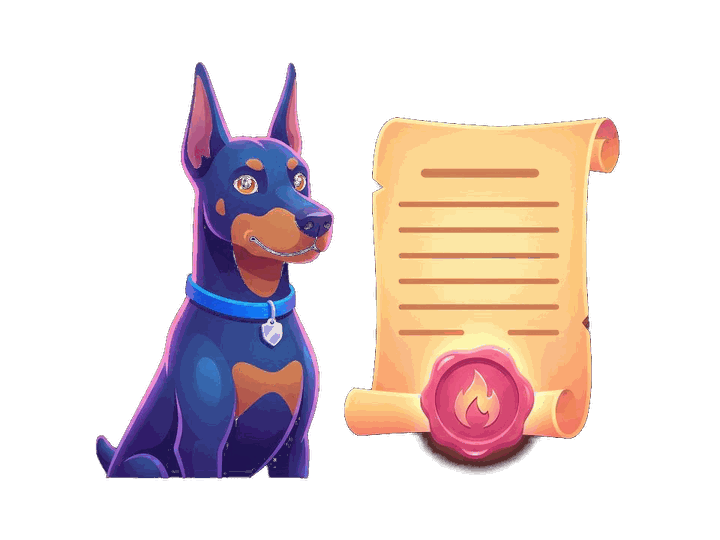
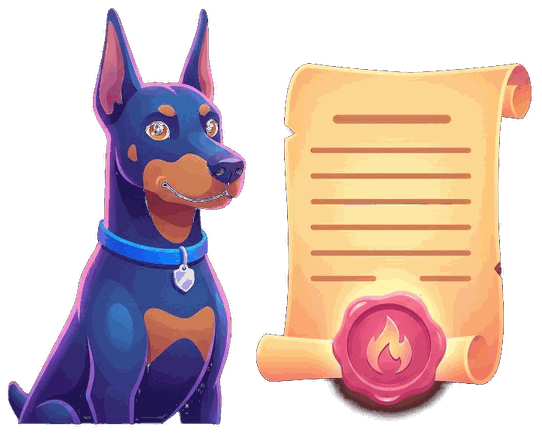
Pictures trimmed to the characters so they sit centred; review screen fits one screen; sample group activity
- All seven onboarding pictures trimmed to the drawing (the empty band above pushed the characters up); each frame
  now uses the picture's own shape. Welcome crew gets room under the logo.
- "Your application is in" fits one screen: smaller photo and title, one-row tracker, buttons at the bottom.
- scripts/seed-groups.mjs: the demo accounts join the Lounge groups, post, reply and like (--remove undoes it).

diff --git a/src/screens/Review.js b/src/screens/Review.js
@@ -2,13 +2,13 @@
 // Pending: what happens next, with the real acceptance rate once there is enough data to be honest about it.
 // Declined: what to improve, and a way to apply again.
 import { useEffect, useState } from 'react';
-import { Animated, Easing, StyleSheet, View } from 'react-native';
+import { Animated, Easing, Image, StyleSheet, View } from 'react-native';
 import { LinearGradient } from 'expo-linear-gradient';
 import { C, F, GRAD } from '../theme';
 import { Icon } from '../icons';
 import { Card, GhostButton, GradientButton, Photo, Screen, T } from '../ui';
 import * as api from '../backend';
-import { StepArt } from '../art';
+import { ART } from '../art';
 
 function Step({ icon, title, sub, state }) {
   const done = state === 'done';
@@ -38,6 +38,36 @@ function Step({ icon, title, sub, state }) {
   );
 }
 
+// Pending: the three steps in one compact row, so the whole screen fits without scrolling.
+function Tracker() {
+  const steps = [
+    { icon: 'check', label: 'Sent', state: 'done' },
+    { icon: 'eye', label: 'In review', state: 'now' },
+    { icon: 'flame', label: 'You’re in', state: 'next' },
+  ];
+  return (
+    <View style={styles.tracker}>
+      {steps.map((s, i) => (
+        <View key={s.label} style={{ flex: 1, alignItems: 'center' }}>
+          {i > 0 ? <View style={[styles.trackLine, s.state === 'next' && { backgroundColor: C.line2 }]} /> : null}
+          {s.state === 'next' ? (
+            <View style={[styles.dot, { backgroundColor: C.surf2 }]}>
+              <Icon name={s.icon} size={15} color={C.muted} />
+            </View>
+          ) : (
+            <LinearGradient colors={GRAD} start={{ x: 0, y: 0 }} end={{ x: 1, y: 1 }} style={styles.dot}>
+              <Icon name={s.icon} size={15} color="#FFFFFF" stroke={2.4} />
+            </LinearGradient>
+          )}
+          <T v="small" c={s.state === 'next' ? C.muted : C.ink} style={{ marginTop: 6, fontFamily: s.state === 'now' ? F.semi : F.medium }}>
+            {s.label}
+          </T>
+        </View>
+      ))}
+    </View>
+  );
+}
+
 export function UnderReview({ profile, status, note, onEdit, onReapply, onRefresh }) {
   const [stats, setStats] = useState(null);
   const [pulse] = useState(() => new Animated.Value(0));
@@ -62,6 +92,56 @@ export function UnderReview({ profile, status, note, onEdit, onReapply, onRefres
 
   // Only a real number, and only once enough applications were decided for it to mean something.
   const rate = stats && stats.decided >= 30 ? Math.round((stats.approved / stats.decided) * 100) : null;
+
+  if (!declined) {
+    // One screen, no scrolling: the picture takes whatever height is left and shrinks on small phones.
+    return (
+      <Screen bottom={16}>
+        <T style={{ fontFamily: F.displayX, fontSize: 22, marginTop: 4 }}>
+          tonight
+          <T c={C.pink} style={{ fontFamily: F.displayX, fontSize: 22 }}>
+            .
+          </T>
+        </T>
+        <View style={{ alignItems: 'center', marginTop: 8 }}>
+          <View style={{ width: 96, height: 96, alignItems: 'center', justifyContent: 'center' }}>
+            <Animated.View
+              style={[
+                StyleSheet.absoluteFill,
+                {
+                  borderRadius: 48,
+                  borderWidth: 1.5,
+                  borderColor: C.pink,
+                  opacity: pulse.interpolate({ inputRange: [0, 1], outputRange: [0.15, 0.7] }),
+                  transform: [{ scale: pulse.interpolate({ inputRange: [0, 1], outputRange: [0.94, 1.06] }) }],
+                },
+              ]}
+            />
+            <Photo uri={profile.photos?.[0]} blur={profile.blurFace} style={{ width: 80, height: 80, borderRadius: 40 }} />
+          </View>
+          <T style={{ fontFamily: F.display, fontSize: 26, marginTop: 10, textAlign: 'center' }}>Your application is in</T>
+          <T v="meta" c={C.muted} style={{ textAlign: 'center', marginTop: 4, maxWidth: 320 }}>
+            {`Thanks${profile.name ? `, ${profile.name}` : ''}. A person looks at every profile before it goes live. We’ll let you know.`}
+          </T>
+        </View>
+        <View style={styles.artBox}>
+          <Image source={ART.review.src} accessibilityLabel={ART.review.label} style={styles.art} resizeMode="contain" />
+        </View>
+        <Tracker />
+        <T v="small" c={C.muted} style={{ textAlign: 'center', marginTop: 8 }}>
+          Usually within 24 hours: photos, bio and verification.
+        </T>
+        <View style={styles.exclusiveLine}>
+          <Icon name="lock" size={13} color={C.pinkL} />
+          <T v="small" c={C.ink2}>
+            {rate !== null ? `Members only. ${rate}% of applications are accepted.` : 'Members only. Not everyone gets in.'}
+          </T>
+        </View>
+        <GradientButton title="Polish my profile meanwhile" onPress={onEdit} style={{ marginTop: 14 }} />
+        <GhostButton title="Check for news" onPress={onRefresh} border={false} color={C.muted} style={{ marginTop: 2 }} />
+      </Screen>
+    );
+  }
 
   return (
     <Screen scroll>
@@ -96,7 +176,6 @@ export function UnderReview({ profile, status, note, onEdit, onReapply, onRefres
             ? 'Your profile wasn’t accepted yet. You can improve it and apply once more.'
             : `Thanks${profile.name ? `, ${profile.name}` : ''}. Tonight is members-only: a person looks at every profile before it goes live. You’ll get a notification when there’s news.`}
         </T>
-        {!declined ? <StepArt name="review" height={160} style={{ marginTop: 18 }} /> : null}
       </View>
 
       {declined ? (
@@ -162,4 +241,9 @@ export function UnderReview({ profile, status, note, onEdit, onReapply, onRefres
 const styles = StyleSheet.create({
   dot: { width: 30, height: 30, borderRadius: 15, alignItems: 'center', justifyContent: 'center' },
   exclusive: { flexDirection: 'row', gap: 10, alignItems: 'center', marginTop: 16, borderRadius: 14, borderWidth: 1, borderColor: '#3A2230', padding: 12 },
+  exclusiveLine: { flexDirection: 'row', gap: 6, alignItems: 'center', justifyContent: 'center', marginTop: 6 },
+  artBox: { flex: 1, minHeight: 90, alignItems: 'center', justifyContent: 'center', marginVertical: 8 },
+  art: { height: '100%', maxHeight: 220, aspectRatio: ART.review.aspect, maxWidth: '100%' },
+  tracker: { flexDirection: 'row', alignItems: 'flex-start', paddingTop: 4 },
+  trackLine: { position: 'absolute', top: 18, right: '50%', width: '100%', height: 2, backgroundColor: C.pink, opacity: 0.7 },
 });

diff --git a/src/art.js b/src/art.js
@@ -3,13 +3,13 @@
 import { Image, View } from 'react-native';
 
 export const ART = {
-  welcome: { src: require('../assets/onboarding/welcome.png'), label: 'Illustration: the masked crew at a velvet rope by a glowing pink door' },
-  code: { src: require('../assets/onboarding/code.png'), label: 'Illustration: Ward the Doberman guarding the sealed Tonight Code' },
-  boundaries: { src: require('../assets/onboarding/boundaries.png'), label: 'Illustration: Vi sorting yes, maybe and no cards' },
-  photos: { src: require('../assets/onboarding/photos.png'), label: 'Illustration: Nova putting on her mask at a vanity mirror' },
-  verify: { src: require('../assets/onboarding/verify.png'), label: 'Illustration: Volt taking a verification selfie' },
-  discretion: { src: require('../assets/onboarding/discretion.png'), label: 'Illustration: Ash saying shh beside a phone lying face-down' },
-  review: { src: require('../assets/onboarding/review.png'), label: 'Illustration: Ward bringing a sealed letter while Blaze crosses her fingers' },
+  welcome: { src: require('../assets/onboarding/welcome.png'), aspect: 1.385, label: 'Illustration: the masked crew at a velvet rope by a glowing pink door' },
+  code: { src: require('../assets/onboarding/code.png'), aspect: 1.246, label: 'Illustration: Ward the Doberman guarding the sealed Tonight Code' },
+  boundaries: { src: require('../assets/onboarding/boundaries.png'), aspect: 1.331, label: 'Illustration: Vi sorting yes, maybe and no cards' },
+  photos: { src: require('../assets/onboarding/photos.png'), aspect: 1.164, label: 'Illustration: Nova putting on her mask at a vanity mirror' },
+  verify: { src: require('../assets/onboarding/verify.png'), aspect: 1.012, label: 'Illustration: Volt taking a verification selfie' },
+  discretion: { src: require('../assets/onboarding/discretion.png'), aspect: 0.889, label: 'Illustration: Ash saying shh beside a phone lying face-down' },
+  review: { src: require('../assets/onboarding/review.png'), aspect: 1.177, label: 'Illustration: Ward bringing a sealed letter while Blaze crosses her fingers' },
 };
 
 // Lounge group covers, by the key stored in groups.cover (no key: a gradient with the group's initials).
@@ -20,12 +20,12 @@ export const GROUP_COVERS = {
   boundaries: require('../assets/onboarding/boundaries.jpg'),
 };
 
-// The art is cut out of its dark background (scripts/cutout-art.py: transparent PNGs), so the characters sit right on
-// the app's glow instead of in a dark box.
+// The art is cut out of its dark background (scripts/cutout-art.py: transparent PNGs) and trimmed to the characters,
+// so they sit right on the app's glow, and the frame is exactly the drawing: no empty band above pushing it up.
 export function StepArt({ name, height = 170, style }) {
   const a = ART[name];
   return (
-    <View style={[{ alignSelf: 'center', height, aspectRatio: 4 / 3, marginTop: 14 }, style]}>
+    <View style={[{ alignSelf: 'center', height, aspectRatio: a.aspect, marginTop: 18, marginBottom: 2 }, style]}>
       <Image source={a.src} accessibilityLabel={a.label} style={{ width: '100%', height: '100%' }} resizeMode="contain" />
     </View>
   );

diff --git a/src/screens/Onboarding.js b/src/screens/Onboarding.js
@@ -1436,7 +1436,7 @@ const styles = StyleSheet.create({
   tipPlus: { width: 26, height: 26, borderRadius: 13, backgroundColor: C.pinkBg, alignItems: 'center', justifyContent: 'center' },
   emailSignIn: { height: 54, borderRadius: 27, borderWidth: 1.5, borderColor: '#3A3439', flexDirection: 'row', alignItems: 'center', justifyContent: 'center', gap: 8 },
   // The crew takes whatever height is left on the screen (more on tall phones, less on small ones).
-  welcomeArt: { flex: 1, minHeight: 0, maxHeight: 300, marginTop: 6, marginBottom: 4, overflow: 'hidden' },
+  welcomeArt: { flex: 1, minHeight: 0, maxHeight: 290, marginTop: 16, marginBottom: 6, overflow: 'hidden' },
   memberPill: {
     flexDirection: 'row',
     alignItems: 'center',
